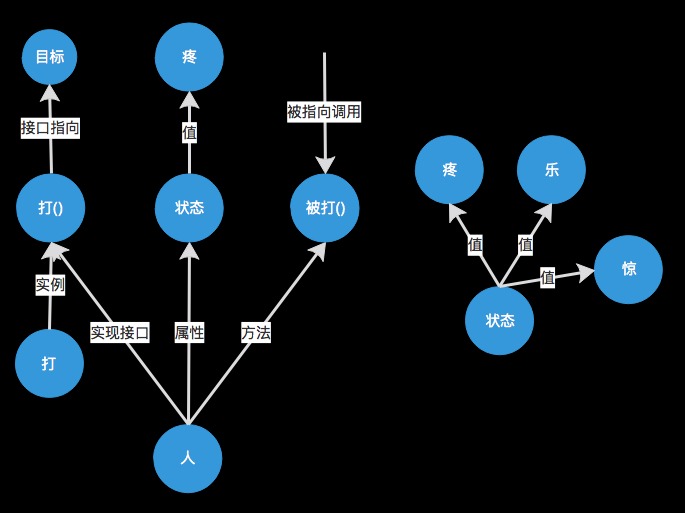
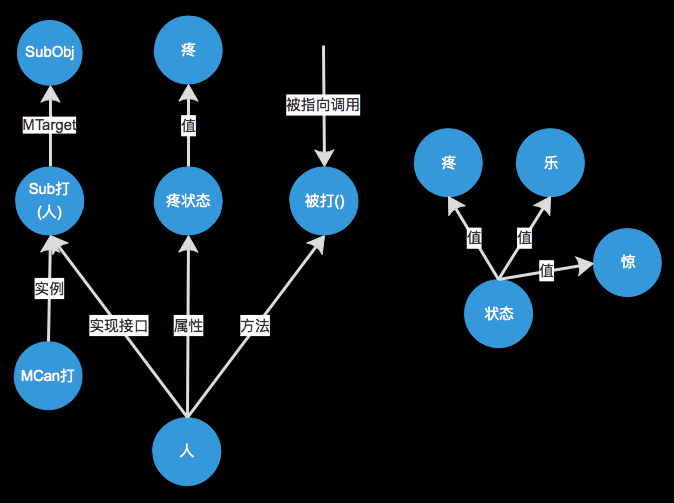
1. n10p9 ActionControl的增删改查;  2. 整理DataType和AILineType;

diff --git a/手写笔记/Note10.md b/手写笔记/Note10.md
@@ -12,6 +12,7 @@
 	- [n10p6 归纳结构-概述](#n10p6-归纳结构-概述)
 	- [n10p7 规则思想总结](#n10p7-规则思想总结)
 	- [n10p8 归纳结构-正文](#n10p8-归纳结构-正文)
+	- [n10p9 ActionControl的增删改查](#n10p9-actioncontrol的增删改查)
 	- [ToDoList](#todolist)
 
 <!-- /TOC -->
@@ -182,27 +183,53 @@
 | DataType >> |
 | --- |
 
-|  |  |
-| --- | --- |
-| 1 | Int |
-| 2 | Float |
-| 3 | String |
-| 4 | Char |
-| 5 | Obj |
-| 6 | Arr |
-| 7 | MLogic(Method方法,被调用,记录Logic) |
-| 8 | MCan(Method接口,有目标) |
-| 9 | SubObj,SubInt等(其中SubX类型,在定义时,并不会知晓X是什么类型;只是Sub而已) |
+|  |  |  |
+| --- | --- | --- |
+| 1 | Int |  |
+| 2 | Float |  |
+| 3 | String |  |
+| 4 | Char |  |
+| 5 | Obj |  |
+| 6 | Arr |  |
+| 7 | MLogic | Method方法,被调用,记录Logic |
+| 8 | MCanOut | Method接口,有目标,输出如:打`对方疼` |
+| 9 | MCanIn | Method接口,有目标,输入如:吃`自己饱` |
+| 10 | SubObj,SubInt等 | 其中SubX类型,在定义时,并不会知晓X是什么类型;只是Sub而已,`相当于C#中T<Object>` |
 
 | 注 >> |
 | --- |
 
 |  |  |
 | --- | --- |
-| 1 | 所有定义了的自定义对象都用SubX类型,而无权使用Obj;(Obj只有一个,并不可实例化) |
+| 1 | 所有定义了的自定义对象都用SubX类型,而无权使用Obj;(Obj只有一个,并不可实例化)`X是父节点地址` |
 | 2 | Law规律是类比的结果 |
-| 3 | Law用属性,继承,Can等表示 |
-| 4 | Logic逻辑用method_Logic表示(方法被调用时,某状态的变化) |
+| 3 | 未明确Law用`unLaw关联类型` |
+| 3 | 已明确Law用属性,继承,Can等表示 |
+| 4 | Logic逻辑用MLogic表示(方法被调用时,某状态的变化) |
+
+***
+
+| 示图 >> |
+| --- |
+
+| ![](assets/Net归纳结构3.png) |
+| --- |
+
+***
+
+
+
+
+
+
+
+
+
+
+
+
+
+
 
 
 
@@ -272,14 +299,58 @@
 | 关联类型 `AILine.Type` >> |
 | --- |
 
+<font color = red>
+
 |  |  |
 | --- | --- |
-| ![](assets/25.png) | ![](assets/26.png) |
-| 属性property | MLogic |
-| 值valueIs | MCan |
-| 继承isA | Law(未确定`归纳结构`时,也需要存储) |
+| ![](assets/25.png) | ![](assets/Net归纳结构3.png) |
+
+|  |  |
+| --- | --- |
+| 属性property | 方法目标MTarget |
+| 值valueIs | 方法结果MResult |
+| 继承isA | MCanIn |
+|  | MCanOut |
+|  | UnLaw(未确定`归纳结构`时,也需要存储) |
+
+</font>
 
 ***
+
+
+
+
+
+
+
+<br><br><br><br><br>
+
+
+## n10p9 ActionControl的增删改查
+`CreateTime 18.1.4`
+
+
+| 查-全局检索 >> |
+| --- |
+
+|  |  |
+| --- | --- |
+| 矛盾 | 不识别无法检索,不检索无法识别 |
+| 拆分多维检索 | 所以在神经元算法结果之处，便全了分维与各维独立优化。拆分多维检索有效提高速度 |
+
+
+***
+
+| 查-区域点亮 >> |
+| --- |
+
+
+***
+
+
+
+
+
 
 
 <br><br><br><br><br>
@@ -289,6 +360,6 @@
 |  |  |
 | --- | --- |
 | 1 | 实现，输入充时，thinking兴奋。 |
-
+| 2 | 循环输入所有汉字。检索一字 |
 
 <br><br><br><br><br><br><br>

diff --git a/目录.md b/目录.md
@@ -6,7 +6,7 @@
 
 - ## 手写笔记
 
-  - [Note10](手写笔记/Note10.md)<font size="1" color="#888888"> 修改时间:01月03日 09:44:58</font>
+  - [Note10](手写笔记/Note10.md)<font size="1" color="#888888"> 修改时间:01月04日 09:34:03</font>
   - [Note9](手写笔记/Note9.md)<font size="1" color="#888888"> 修改时间:01月03日 08:52:09</font>
   - [Note8](手写笔记/Note8.md)<font size="1" color="#888888"> 修改时间:2017年11月28日 08:44:21</font>
   - [Note7](手写笔记/Note7.md)<font size="1" color="#888888"> 修改时间:2017年12月19日 09:10:47</font>
@@ -210,6 +210,8 @@
   * [INPUT_注意力](iphone备忘录/INPUT_注意力.md)<font size="1" color="#888888"> 修改时间:2017年07月26日 13:17:10</font>
   * [行为与能力](iphone备忘录/行为与能力.md)<font size="1" color="#888888"> 修改时间:2017年07月26日 13:19:43</font>
   * [为推动人工智能的发展所作的思考](iphone备忘录/为推动人工智能的发展所作的思考.md)<font size="1" color="#888888"> 修改时间:2017年07月26日 13:27:34</font>
+
+
 
 
 
